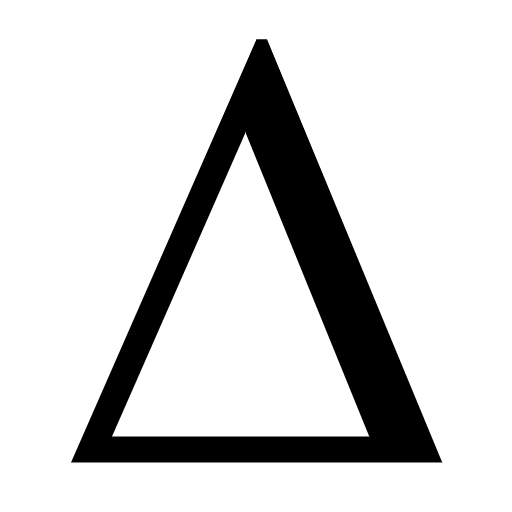
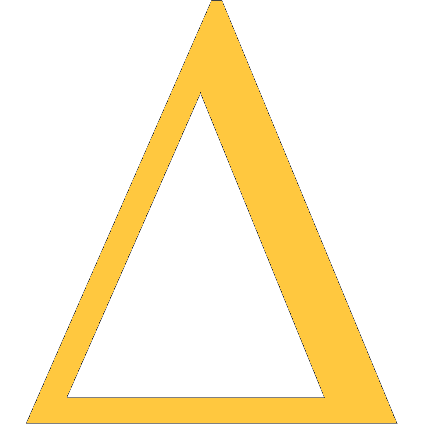
color changes for moons

Changed region(s): [[0.0613, 0.0, 0.9505, 1.0]]

diff --git a/public/models/storyapp.js b/public/models/storyapp.js
@@ -334,12 +334,12 @@ export class StoryApp extends BaseApp {
     mesh.origsy = mesh.scaling.y;
     mesh.origsz = mesh.scaling.z;
 
-    orbitWrapper.symbolWrapper = this.loadSymbolForAsteroid(mesh, asteroid);
+    orbitWrapper.symbolWrapper = this.loadSymbolForAsteroid(mesh, asteroid, index);
   }
-  loadSymbolForAsteroid(parent, name) {
+  loadSymbolForAsteroid(parent, name, index) {
     let size = 1;
 
-    if (!this.asteroidSymbolMesh) {
+    if (!this.asteroidSymbolMesh1) {
       let symbolWrapper = BABYLON.MeshBuilder.CreateBox('asteroidsymbolwrapper', {
         width: .01,
         height: .01,
@@ -414,10 +414,91 @@ export class StoryApp extends BaseApp {
       nameMesh2.position.y = symbolMesh1.position.y + factor;
       nameMesh2.rotation.y = Math.PI;
     }
+    if (!this.asteroidSymbolMesh2) {
+      let symbolWrapper = BABYLON.MeshBuilder.CreateBox('asteroidsymbolwrapper2', {
+        width: .01,
+        height: .01,
+        depth: .01
+      }, this.scene);
+      symbolWrapper.parent = parent;
+      symbolWrapper.material = this.mat1alpha;
+      this.asteroidSymbolMesh2 = symbolWrapper;
+
+      let symbolMesh1 = BABYLON.MeshBuilder.CreatePlane('symbolshow1asteroid2', {
+        height: size,
+        width: size
+      }, this.scene);
+      let symbolMesh3 = BABYLON.MeshBuilder.CreatePlane('symbolshow3asteroid2', {
+        height: size,
+        width: size
+      }, this.scene);
+
+      let m = new BABYLON.StandardMaterial('symbolshowmatasteroid2', this.scene);
+      let t = new BABYLON.Texture('/symbol/asteroid2.png', this.scene);
+      t.vScale = 1;
+      t.uScale = 1;
+      t.hasAlpha = true;
+
+      m.diffuseTexture = t;
+      m.emissiveTexture = t;
+      m.ambientTexture = t;
+      let extraY = 0;
+      symbolMesh1.material = m;
+      symbolMesh1.parent = symbolWrapper;
+      symbolMesh1.rotation.y = 0;
+      symbolMesh1.position.y = extraY;
+      symbolMesh3.material = m;
+      symbolMesh3.parent = symbolWrapper;
+      symbolMesh3.rotation.y = Math.PI;
+      symbolMesh3.position.y = extraY;
+      symbolMesh3.scaling.x = -1;
+
+      this.asteroidSymbolMeshName = BABYLON.MeshBuilder.CreateBox('asteroidnamewrapper2', {
+        width: .01,
+        height: .01,
+        depth: .01
+      }, this.scene);
+      this.asteroidSymbolMeshName.position.y = 1;
+      this.asteroidSymbolMeshName.visibility = 0;
+      this.asteroidSymbolMeshName.material = this.mat1alpha;
+      this.asteroidSymbolMeshName.setEnabled(false);
+
+      let nameMesh1 = BABYLON.MeshBuilder.CreatePlane('nameshow1asteroid2', {
+        height: size * 5,
+        width: size * 5
+      }, this.scene);
+      let nameMesh2 = BABYLON.MeshBuilder.CreatePlane('nameshow2asteroid2', {
+        height: size * 5,
+        width: size * 5
+      }, this.scene);
+
+      let nameMat = new BABYLON.StandardMaterial('nameshowmatasteroid2', this.scene);
+      this.__setTextMaterial(nameMat, 'asteroid2');
+      this.asteroidSymbolMeshName.nameMaterial = nameMat;
+
+      nameMesh1.material = nameMat;
+      nameMesh1.parent = this.asteroidSymbolMeshName;
+      nameMesh2.material = nameMat;
+      nameMesh2.parent = this.asteroidSymbolMeshName;
+      nameMesh2.scaling.x = -1;
+
+      let factor = -1.8;
+      //    if (meta.symbolY < -0.99)
+      //    factor = -2.75;
+      nameMesh1.position.y = symbolMesh1.position.y + factor;
+      nameMesh2.position.y = symbolMesh1.position.y + factor;
+      nameMesh2.rotation.y = Math.PI;
+    }
 
     //parent.symbolWrapper = symbolWrapper;
-    const asteroidSymbol = this.asteroidSymbolMesh.clone("asteroidsymbol" + name);
-    asteroidSymbol.parent = parent;
+    let asteroidSymbol;
+    if (index % 2 === 0) {
+      asteroidSymbol = this.asteroidSymbolMesh.clone("asteroidsymbol" + name);
+      asteroidSymbol.parent = parent;
+    } else {
+      asteroidSymbol = this.asteroidSymbolMesh2.clone("asteroidsymbol" + name);
+      asteroidSymbol.parent = parent;
+    }
 
     return asteroidSymbol;
   }
